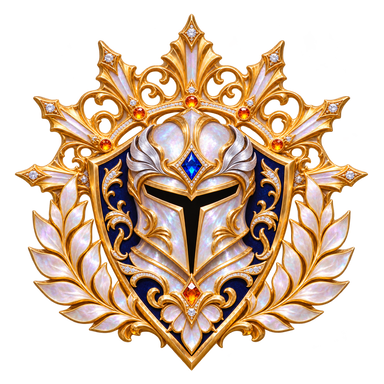
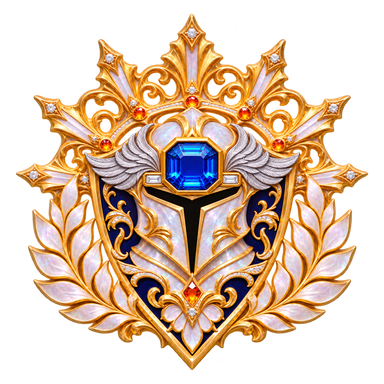
Distinguish Champion podium helmets by diamond cut and setting

diff --git a/tools/league-lab/rank-art/preview/gallery.ts b/tools/league-lab/rank-art/preview/gallery.ts
@@ -144,9 +144,9 @@ function schedule() {
 }
 const accents = [
   "",
-  " Am Stirndiadem wandert ein Lichtsaum vom Opal in die goldenen Strahlen.",
-  " Die silbernen Schläfenflügel antworten paarweise auf den Saphir.",
-  " Ein einzelner warmer Reflex streift den Lorbeerreif.",
+  " Im großen Brillanten bricht sich das Licht in Farben. Danach erreicht es den Kranz kleiner Diamanten und das goldene Diadem.",
+  " Die Stufen des blauen Diamanten fangen den Reflex zuerst auf, dann die beiden Seitensteine und die silbernen Federn.",
+  " Ein warmer Lichtstrich trifft den roséfarbenen Diamanten und die Blattspitzen des Lorbeerreifs.",
 ];
 function present() {
   const v = badge();

diff --git a/art/baylee/ranks/README.md b/art/baylee/ranks/README.md
@@ -26,11 +26,11 @@ Beide Reihen enthalten je elf Ligaabzeichen und 24 Divisionsabzeichen. Drei Sond
 | Grandmaster | [Helm](player/grandmaster.png) | [Karten](deck/grandmaster.png) | – |
 | Champion | [Helm](player/champion.png) | [Karten](deck/champion.png) | – |
 
-| Champion-Platz | Spielerhelm |
-| --- | --- |
-| 3 | [Lorbeerhelm](player/champion-3.png) |
-| 2 | [Flügelhelm](player/champion-2.png) |
-| 1 | [Kronenhelm](player/champion-1.png) |
+| Champion-Platz | Spielerhelm | Mittelstein und Fassung |
+| --- | --- | --- |
+| 3 | [Lorbeerhelm](player/champion-3.png) | Roséfarbener Diamant im Drachenschliff zwischen kupfernen Lorbeerblättern |
+| 2 | [Flügelhelm](player/champion-2.png) | Breiter blauer Diamant im achteckigen Stufenschliff, zwei helle Baguettes und silberne Schläfenflügel |
+| 1 | [Kronenhelm](player/champion-1.png) | Großer heller Brillant mit farbigem Feuer, Pavé-Kranz und gravierten Sonnenstrahlen im Golddiadem |
 
 Die 28 spielbaren Rangstufen und die Vergabe der weltweit höchstens 100 Champion-Plätze beziehen sich im [PoC](../../../tools/league-lab/README.md) auf Spielerkonten. Deckversionen besitzen eigene Elo-Werte. Die Zuordnung dieser Werte zu Deckligen ist offen.
 
@@ -52,7 +52,7 @@ Der [Materialshader](finish.wgsl) legt Licht auf die gemalten Oberflächen. Auf 
 | Grandmaster | Zwei rubinrote Lichtbögen laufen durch den Stein, sein Roségold antwortet versetzt | 9 s |
 | Champion | Auf hellem Perlmutt wandert ein Opalschimmer zwischen Rosé, Eisblau und Grün | 12 s |
 
-Ein Divisionsaufstieg verstärkt den Reflex am Rand der Spange um einen kleinen Schritt. Die Mitte mit der römischen Zahl bleibt lesbar. Alle Divisionen einer Liga teilen deren Tempo. Die drei Champion-Spielerhelme behalten den gemeinsamen Opalschimmer. Platz 3 fängt einen einzelnen warmen Reflex am Lorbeerreif. Bei Platz 2 trifft das Licht beide Schläfenflügel und den Saphir. Bei Platz 1 laufen vom Stirnopal goldene Reflexe in die Strahlen des Diadems.
+Ein Divisionsaufstieg verstärkt den Reflex am Rand der Spange um einen kleinen Schritt. Die Mitte mit der römischen Zahl bleibt lesbar. Alle Divisionen einer Liga teilen deren Tempo. Die drei Champion-Spielerhelme behalten den gemeinsamen Opalschimmer. Bei Platz 3 folgt ein warmer Lichtstrich dem Rosédiamanten und den Blattspitzen. Bei Platz 2 fangen die Stufen des blauen Diamanten, die Baguettes und die silbernen Flügel das Licht nacheinander auf. Bei Platz 1 bricht es sich farbig auf den Facetten des Brillanten und erreicht den Kranz kleiner Diamanten und die Goldgravur.
 
 ### Vorschau öffnen
 
@@ -70,7 +70,7 @@ Die Vorschau nutzt eine RGBA8-Unorm-Textur und ein Unorm-Ausgabeziel mit sRGB-ko
 
 Die 22 Grundmotive wurden am 22. November 2026 mit ImageGen einzeln für Baylee gestaltet. Die Vorgaben waren ein freigestelltes Relief in Frontalansicht, Licht von links oben, ein geschlossener Helm auf einem spitzen Schild für Spieler und ein Fächer aus Kartenrücken mit Rautenschließe für Decks. Die Materialreihe reicht von Papier und Holz über Metall bis zu blauem Kristall, Amethyst, Rubin und gekröntem Opal. Eingaben waren ausschließlich Textbeschreibungen. Für die Beschriftung verwendet der Export die vorhandenen Schriften Faustina und Alegreya Sans aus dem Client. Ihre Lizenzen liegen [bei den Schriften](../../../crates/baylee-client/assets/fonts/licenses).
 
-Für das Podium wurde der fertige Champion-Spielerhelm als Bildvorlage verwendet. Jede der drei Bearbeitungen verändert die Schmiedearbeit direkt am Helm. Die 22 normalisierten Liga-PNGs und die drei fertigen Sonderhelme sind die Quellen für die 48 Divisionsbilder und drei Tafeln. Der Rust-Exporter liest die Divisionen aus der aktuellen Rangliste. Zur Reproduktion im Verzeichnis `tools/league-lab` ausführen.
+Für das Podium wurde der fertige Champion-Spielerhelm als Bildvorlage verwendet. Eine zweite ImageGen-Bearbeitung der drei vorhandenen Podiumshelme vergrößerte ihre Mittelsteine und gab ihnen unterschiedliche Schliffe, Fassungen und Verzierungen. Die 22 normalisierten Liga-PNGs und die drei fertigen Sonderhelme sind die Quellen für die 48 Divisionsbilder und drei Tafeln. Der Rust-Exporter liest die Divisionen aus der aktuellen Rangliste. Zur Reproduktion im Verzeichnis `tools/league-lab` ausführen.
 
 ```sh
 mkdir -p target
